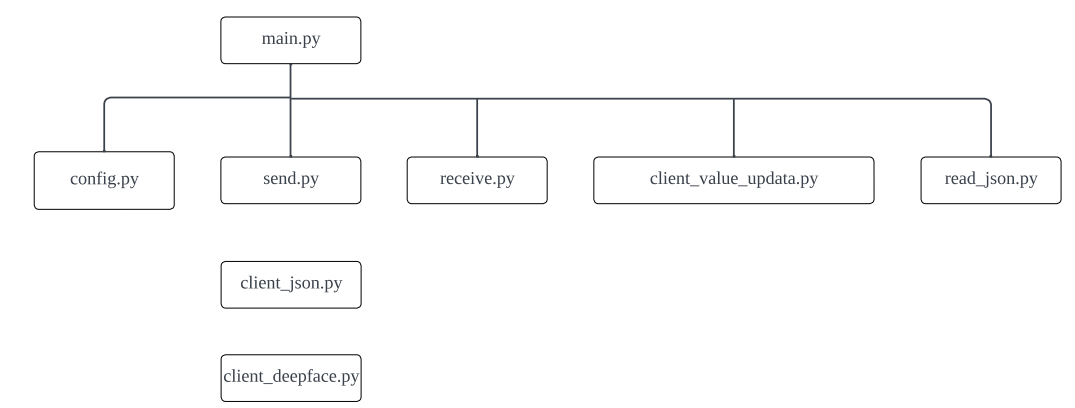
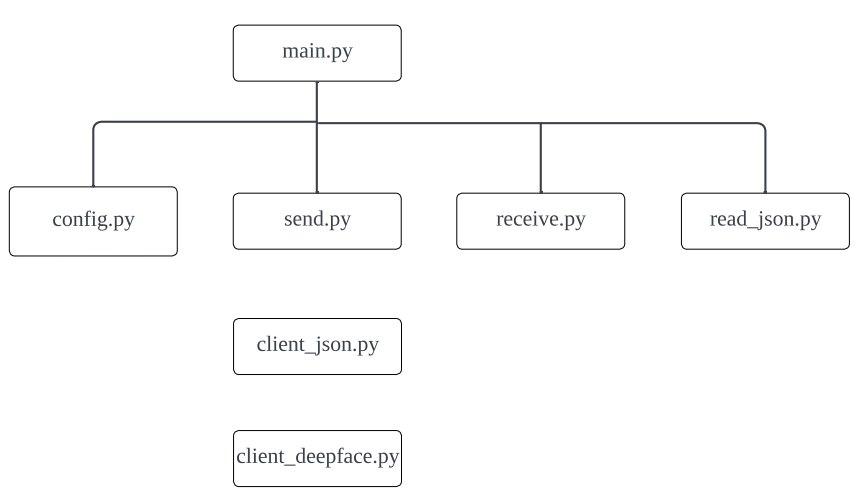
soft_text

diff --git a/mirs2405/soft/num0002a/soft_combined.html b/mirs2405/soft/num0002a/soft_combined.html
@@ -127,11 +127,7 @@
                 <td>receive.py</td>
                 <td>各マイコンからシリアル通信で値を受信</td>
               </tr>
-  
-              <tr>
-                <td>clinet_value_updata.py</td>
-                <td></td>
-              </tr>
+
   
               <tr>
                 <td>read_json.py</td>
@@ -302,7 +298,7 @@
             <br>
               
              <table class="table010">
-              <caption><center><b>Table.5:プログラムの説明</b></center></caption>
+              <caption><center><b>Table.:6プログラムの説明</b></center></caption>
                <tr>
               <th>モジュール名</th>
                <th>概要</th>
